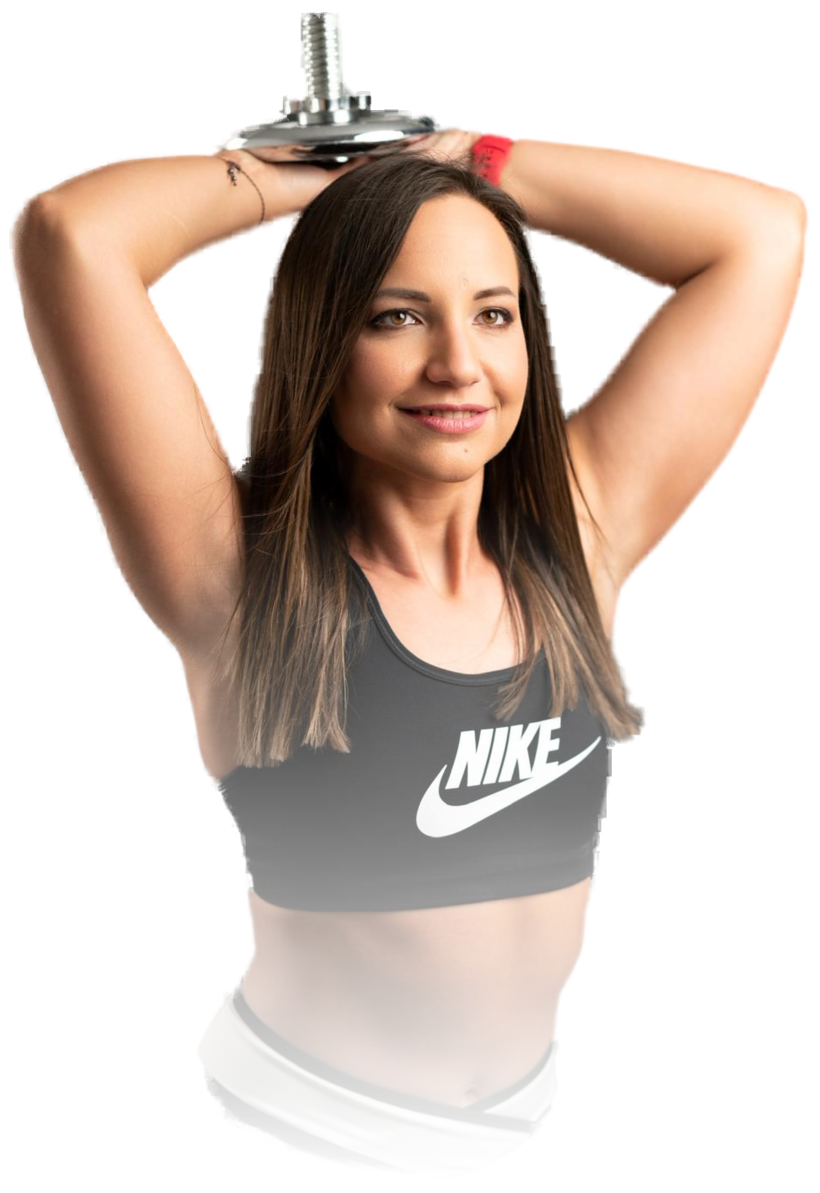
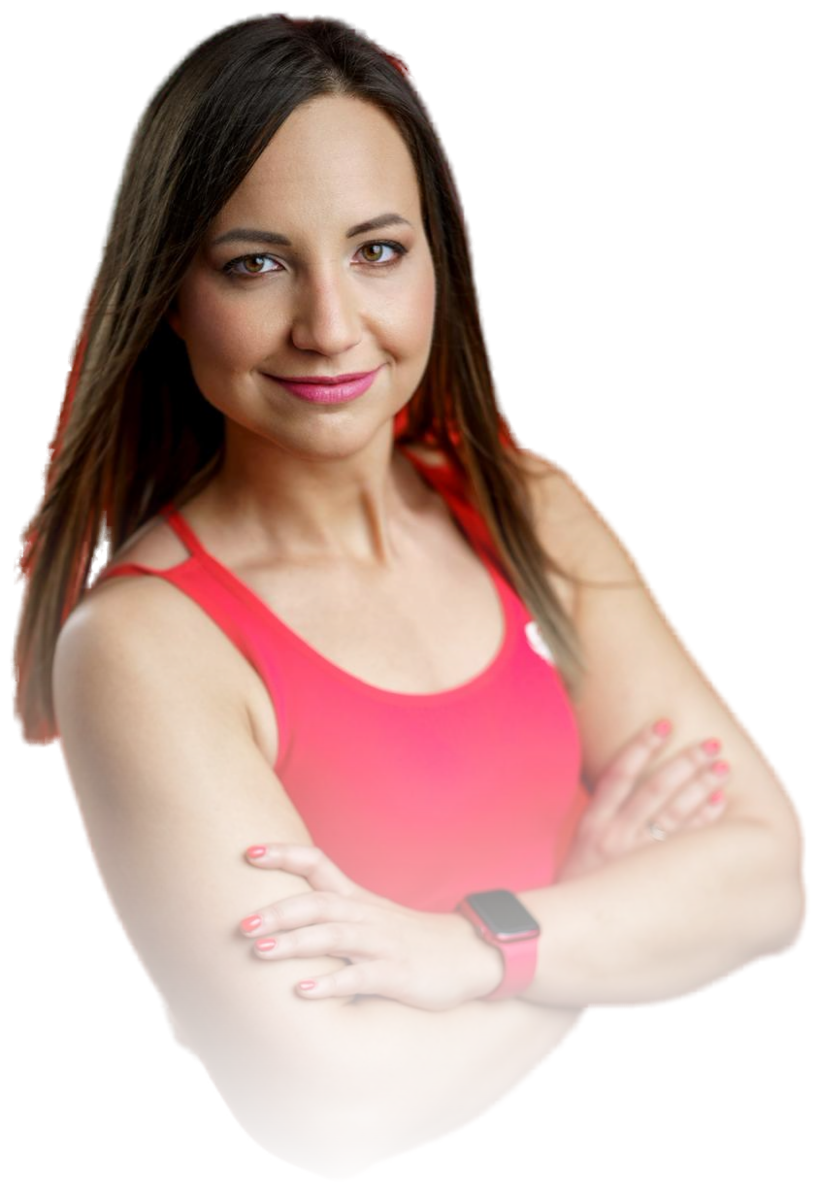
Hero kép csere: piros ruhás portré (piros háttér AI-vel kivágva)
- 33-00 7.jpg (Éva piros sporttopban, piros háttéren): rembg isnet
  modellel a piros-pirosban is tiszta szemantikus kivágás, glória nélkül
- Ugyanaz a profi, hosszú monoton fade alul (mint a korábbi hero)
- eva-hero8.png lecserélve, ASSET_V/IMG_V -> 12 (cache-bust)

diff --git a/app/(public)/layout.tsx b/app/(public)/layout.tsx
@@ -4,7 +4,7 @@ import ScrollTop from "@/components/bodyshape/ScrollTop";
 
 // Bump on every CSS/asset change — busts browser/proxy cache of the
 // fixed-URL static stylesheets (otherwise mobile keeps the stale CSS).
-export const ASSET_V = "11";
+export const ASSET_V = "12";
 
 export default function PublicLayout({
   children,

diff --git a/components/bodyshape/theme.tsx b/components/bodyshape/theme.tsx
@@ -2,7 +2,7 @@
 import { FooterMap } from "./FooterMap";
 
 // Custom eVitality images change content under the same filename; bust cache.
-const IMG_V = "10";
+const IMG_V = "12";
 const img = (p: string) =>
   p.startsWith("evitality/")
     ? `/assets/images/${p}?v=${IMG_V}`
